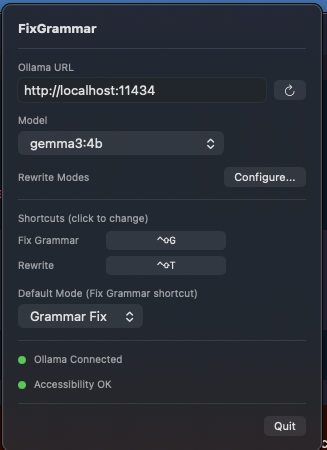
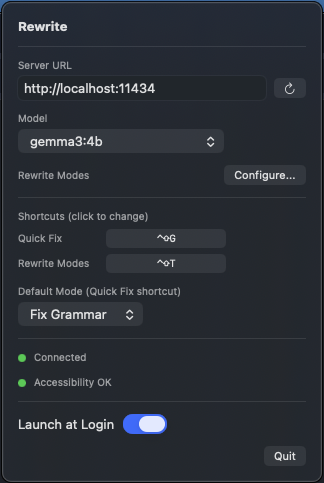
Update README with new screenshots and rewrite popup

diff --git a/README.md b/README.md
@@ -58,10 +58,14 @@ Press `Esc` to dismiss the popup.
 
 The rewrite popup runs your default mode immediately and shows mode pills to switch between:
 
+![Rewrite Popup](screenshots/suggestions.png)
+
 - **Clarity** -- simplifies text for maximum readability
 - **My Tone** -- rewrites to match your personal tone description
 - **Humanize** -- makes AI-generated text sound natural
 - **Professional** -- polished business communication tone
+
+Click **Replace** to swap the original text in-place, or **Copy** to copy the result to clipboard.
 
 Modes are fully configurable. Add, remove, or edit modes and their prompts via **Configure...** in settings.
 
